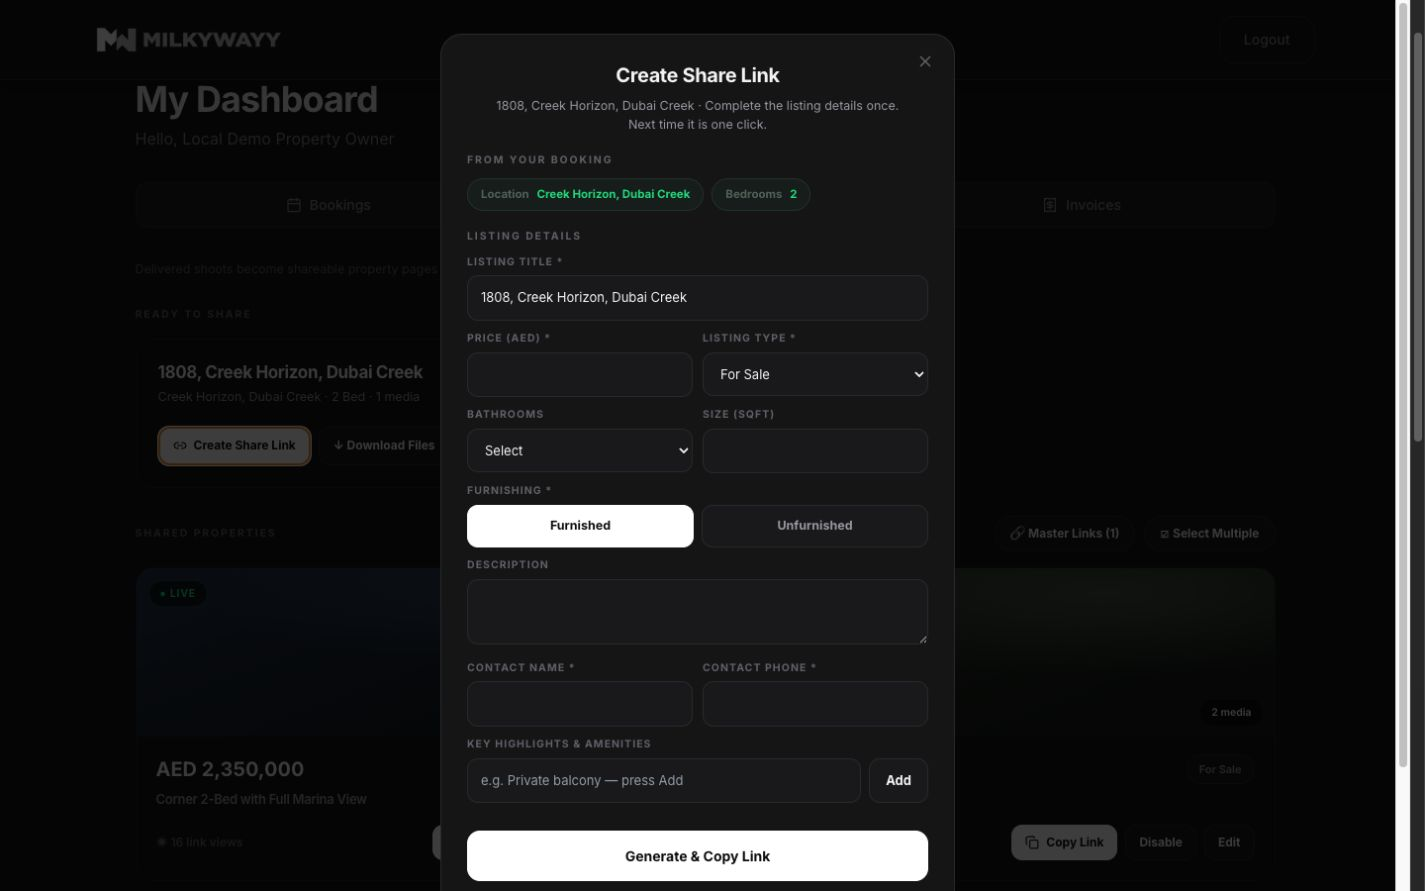
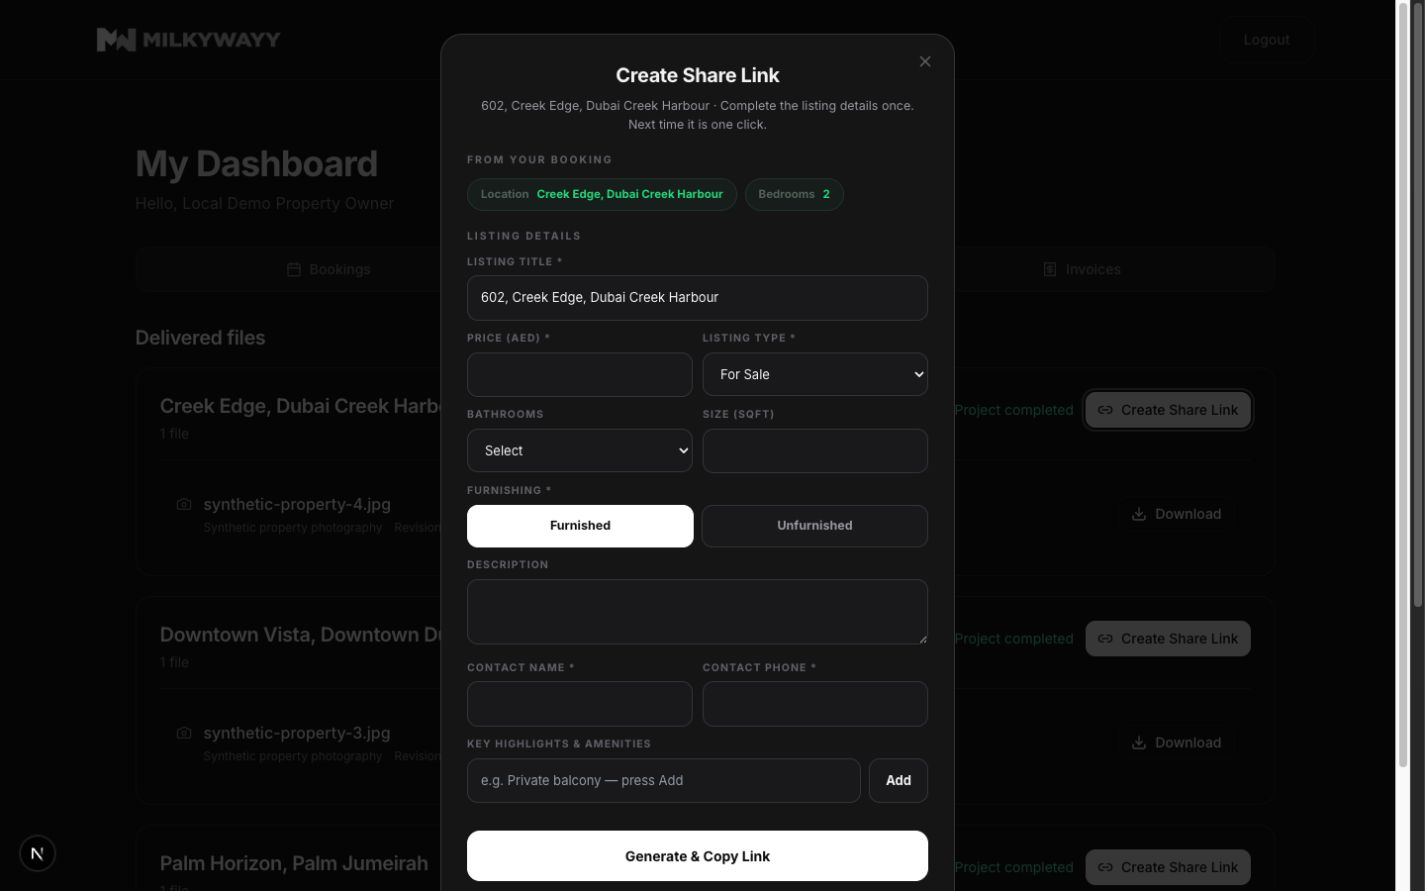
fix: restore share form control contrast (#68)

diff --git a/src/app/dashboard/files/PropertySharingManager.module.css b/src/app/dashboard/files/PropertySharingManager.module.css
@@ -1,15 +1,19 @@
 /* The Properties surface intentionally mirrors the supplied static reference. */
-.manager {
+.manager,
+.overlay {
   --share-card: #131315;
   --share-card-2: #1a1a1d;
   --share-border: #232327;
-  --share-border-2: #2e2e33;
+  --share-border-2: #3a3a42;
   --share-text: #f4f4f5;
   --share-muted: #a1a1aa;
   --share-dim: #6b6b73;
+  color: var(--share-text);
+}
+
+.manager {
   position: relative;
   margin-bottom: 42px;
-  color: var(--share-text);
 }
 
 .tabHint,
@@ -584,6 +588,15 @@
   color: var(--share-text);
   font: inherit;
   font-size: 13px;
+}
+
+.formGrid select {
+  color-scheme: dark;
+}
+
+.formGrid select option {
+  background: #fff;
+  color: #111;
 }
 
 .formGrid textarea {

diff --git a/src/app/dashboard/files/__tests__/PropertyShareDialog.test.jsx b/src/app/dashboard/files/__tests__/PropertyShareDialog.test.jsx
@@ -94,6 +94,15 @@ describe("PropertyShareDialog", () => {
     expect(
       screen.getByRole("form", { name: "Create property listing" }),
     ).toBeInTheDocument();
+    expect(
+      screen.getByRole("option", { name: "For Sale" }),
+    ).toBeInTheDocument();
+    expect(
+      screen.getByRole("option", { name: "For Rent (yearly)" }),
+    ).toBeInTheDocument();
+    expect(
+      screen.getByRole("option", { name: "Holiday Home" }),
+    ).toBeInTheDocument();
 
     fireEvent.change(screen.getByLabelText("PRICE (AED) *"), {
       target: { value: "2350000" },

diff --git a/docs/customer-property-sharing/proof/issue-68/README.md b/docs/customer-property-sharing/proof/issue-68/README.md
@@ -24,8 +24,9 @@ authenticated layout.
   standalone Ready/Shared/Master management section or duplicated project list.
 - [`corrected-listing-form-desktop.jpg`](corrected-listing-form-desktop.jpg) and
   [`corrected-listing-form-phone.jpg`](corrected-listing-form-phone.jpg) show the
-  reference-width listing form, segmented furnishing control, owner contact
-  fields, and Generate & Copy Link action.
+  reference-width listing form, explicit bordered controls, readable native
+  dropdown choices, segmented furnishing control, owner contact fields, and
+  Generate & Copy Link action.
 - [`corrected-preview-desktop.jpg`](corrected-preview-desktop.jpg) and
   [`corrected-preview-phone.jpg`](corrected-preview-phone.jpg) show that card
   preview embeds the actual public page and switches between Desktop and Phone
